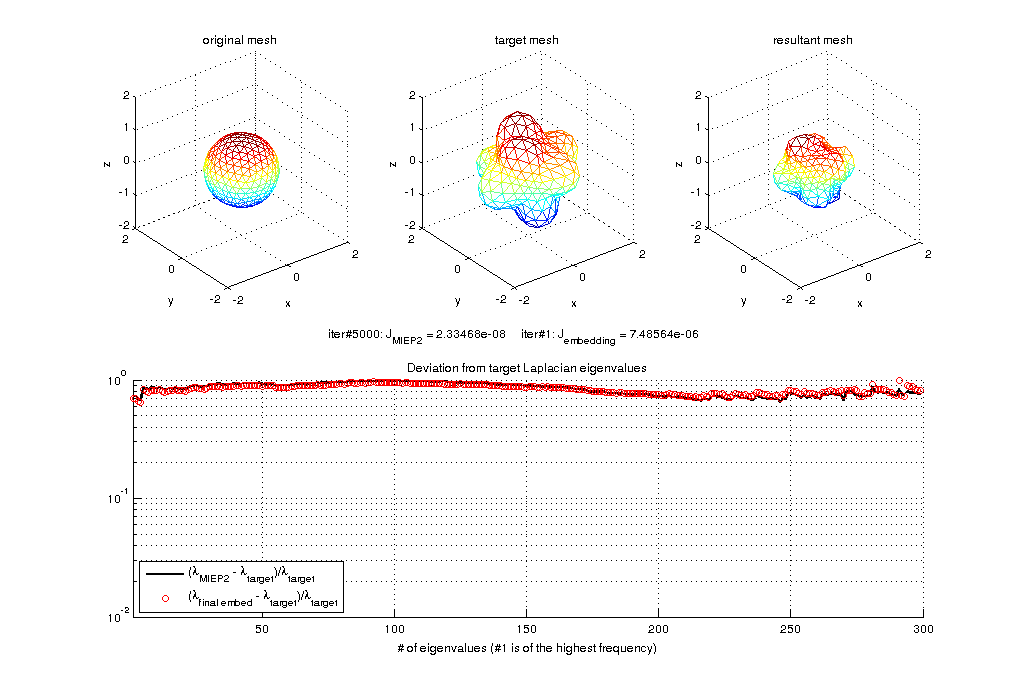
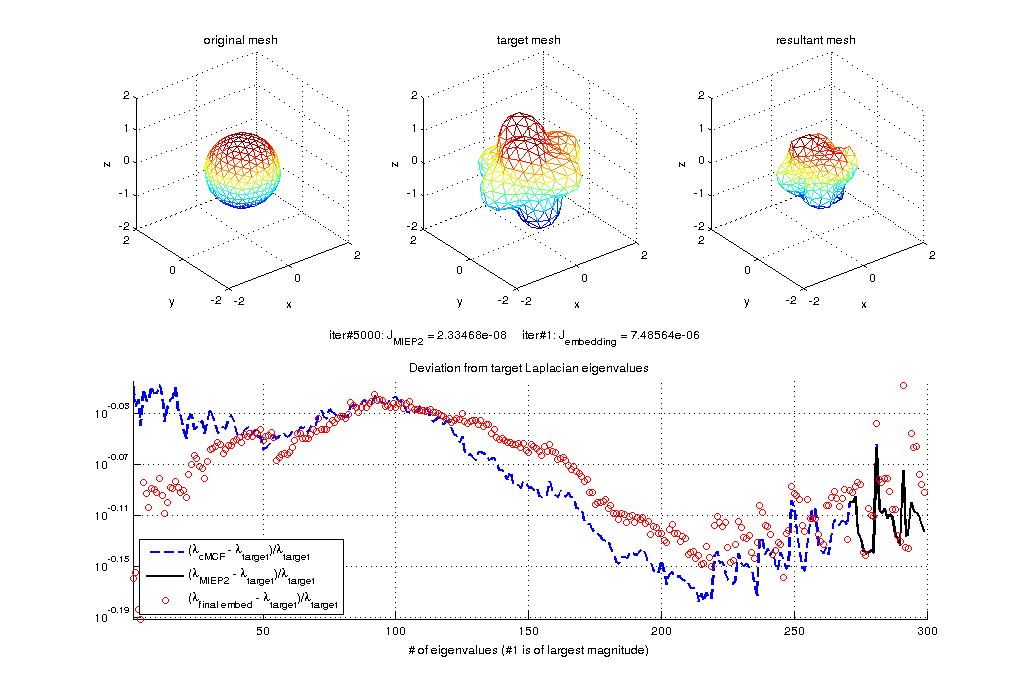
graph

diff --git a/visualize.m b/visualize.m
@@ -53,18 +53,21 @@ title('resultant mesh');
 
 %% compare spectra
 
+[M,L] = lapbel(v,f);
+D_MCF = eigvf(L,diag(1./s_T)*M,size(v,1));
 [M_T,L_T] = lapbel(v_T,f_T);
-[M_end,L_end] = lapbel(v_end,f);
 D_T = eigvf(L_T,M_T,size(v,1));
+[M_end,L_end] = lapbel(v_end,f);
 D_end = eigvf(L_end,M_end,size(v,1));
-if ~isempty(s_end)
-  [M,L] = lapbel(v,f);
-  D_endp = eigvf(L,diag(1./s_end)*M,size(v,1));
-else
+% if ~isempty(s_end)
+%   [M,L] = lapbel(v,f);
+%   D_endp = eigvf(L,diag(1./s_end)*M,size(v,1));
+% else
   D_endp = [nan(size(v,1)-numel(D_endp),1); D_endp];
-end
+% end
 
 subplot(2,3,4:6); hold all; grid on;
+v0 = (D_MCF - D_T)./D_T;
 v1 = (D_endp - D_T)./D_T;
 v2 = (D_end - D_T)./D_T;
 
@@ -77,6 +80,7 @@ v2 = (D_end - D_T)./D_T;
 % ylabel('\propto eigenvalue magnitude');
 
 % linear relative error plot
+% plot(v0(1:end-1),'b--','linewidth',2);
 % plot(v1(1:end-1),'k-','linewidth',2);
 % plot(v2(1:end-1),'ro');
 % c1 = .18;
@@ -84,6 +88,7 @@ v2 = (D_end - D_T)./D_T;
 % legendpos = 'northwest';
 
 % log relative error plot
+plot(abs(v0(1:end-1)),'b--','linewidth',2);
 plot(abs(v1(1:end-1)),'k-','linewidth',2);
 plot(abs(v2(1:end-1)),'ro');
 set(gca,'yscale','log');
@@ -91,10 +96,11 @@ c1 = 0;
 c2 = 0.18;
 legendpos = 'southwest';
 
-legend('(\lambda_{MIEP2} - \lambda_{target})/\lambda_{target}',...
+legend('(\lambda_{cMCF} - \lambda_{target})/\lambda_{target}',...
+  '(\lambda_{MIEP2} - \lambda_{target})/\lambda_{target}',...
   '(\lambda_{final embed} - \lambda_{target})/\lambda_{target}',...
   'location',legendpos);
-xlabel('# of eigenvalues (#1 is of the highest frequency)');
+xlabel('# of eigenvalues (#1 is of largest magnitude)');
 title('Deviation from target Laplacian eigenvalues');
 
 fig = gcf;
@@ -105,7 +111,7 @@ else
 end
 pause(.1);
 set(ax,'xlim',[1 numel(D_T)])
-set(ax,'ylim',[1e-2 1])
+% set(ax,'ylim',[1e-2 1])
 xm = get(ax,'xlim');
 ym = get(ax,'ylim');
 text(floor(max(xm)/4),((ym(2)/ym(1))^c2*ym(2) + c1*diff(ym)),...
